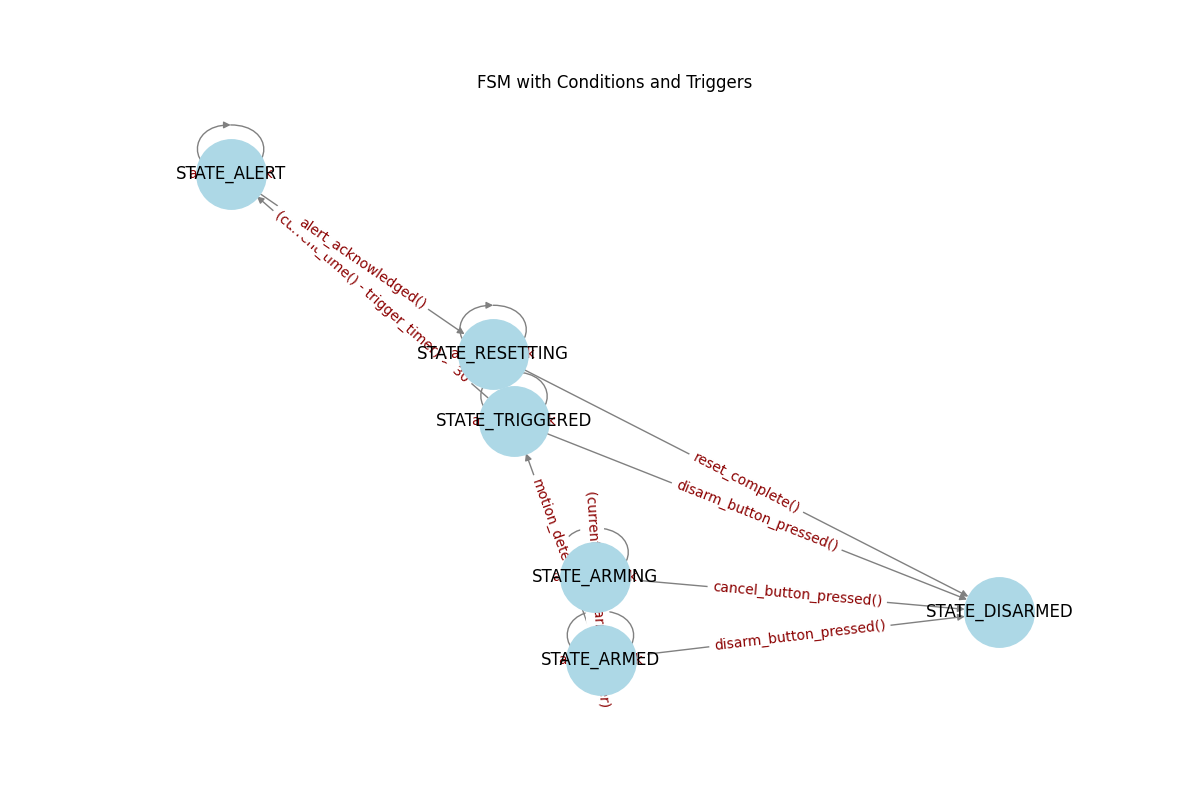
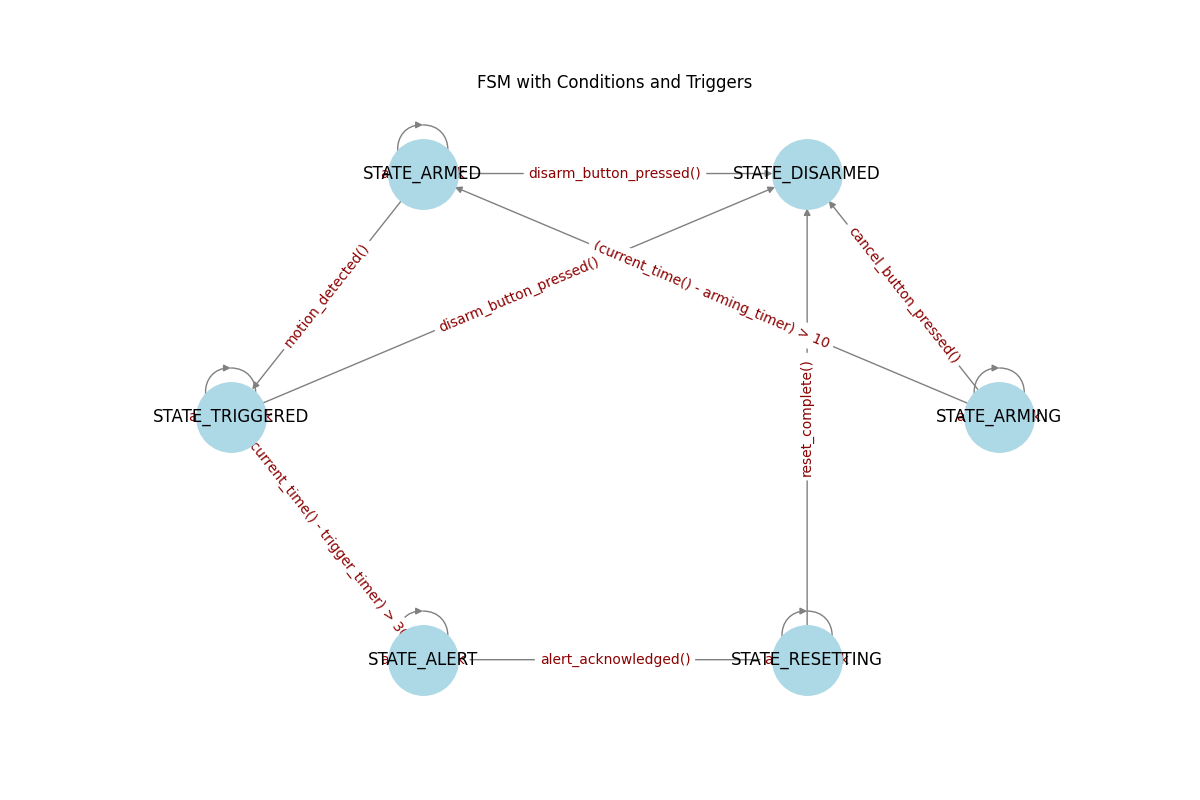
update clean visual graph view

diff --git a/main.py b/main.py
@@ -160,7 +160,7 @@ def build_fsm_graph(transitions):
 
 
 def visualize_fsm(G):
-    pos = nx.spring_layout(G, seed=42)
+    pos = nx.circular_layout(G)
     plt.figure(figsize=(12, 8))
     plt.title("FSM with Conditions and Triggers")
 
@@ -176,7 +176,6 @@ def visualize_fsm(G):
         arrows=True,
     )
     nx.draw_networkx_edge_labels(G, pos, edge_labels=edge_labels, font_color="darkred")
-
     plt.show()
 
 
